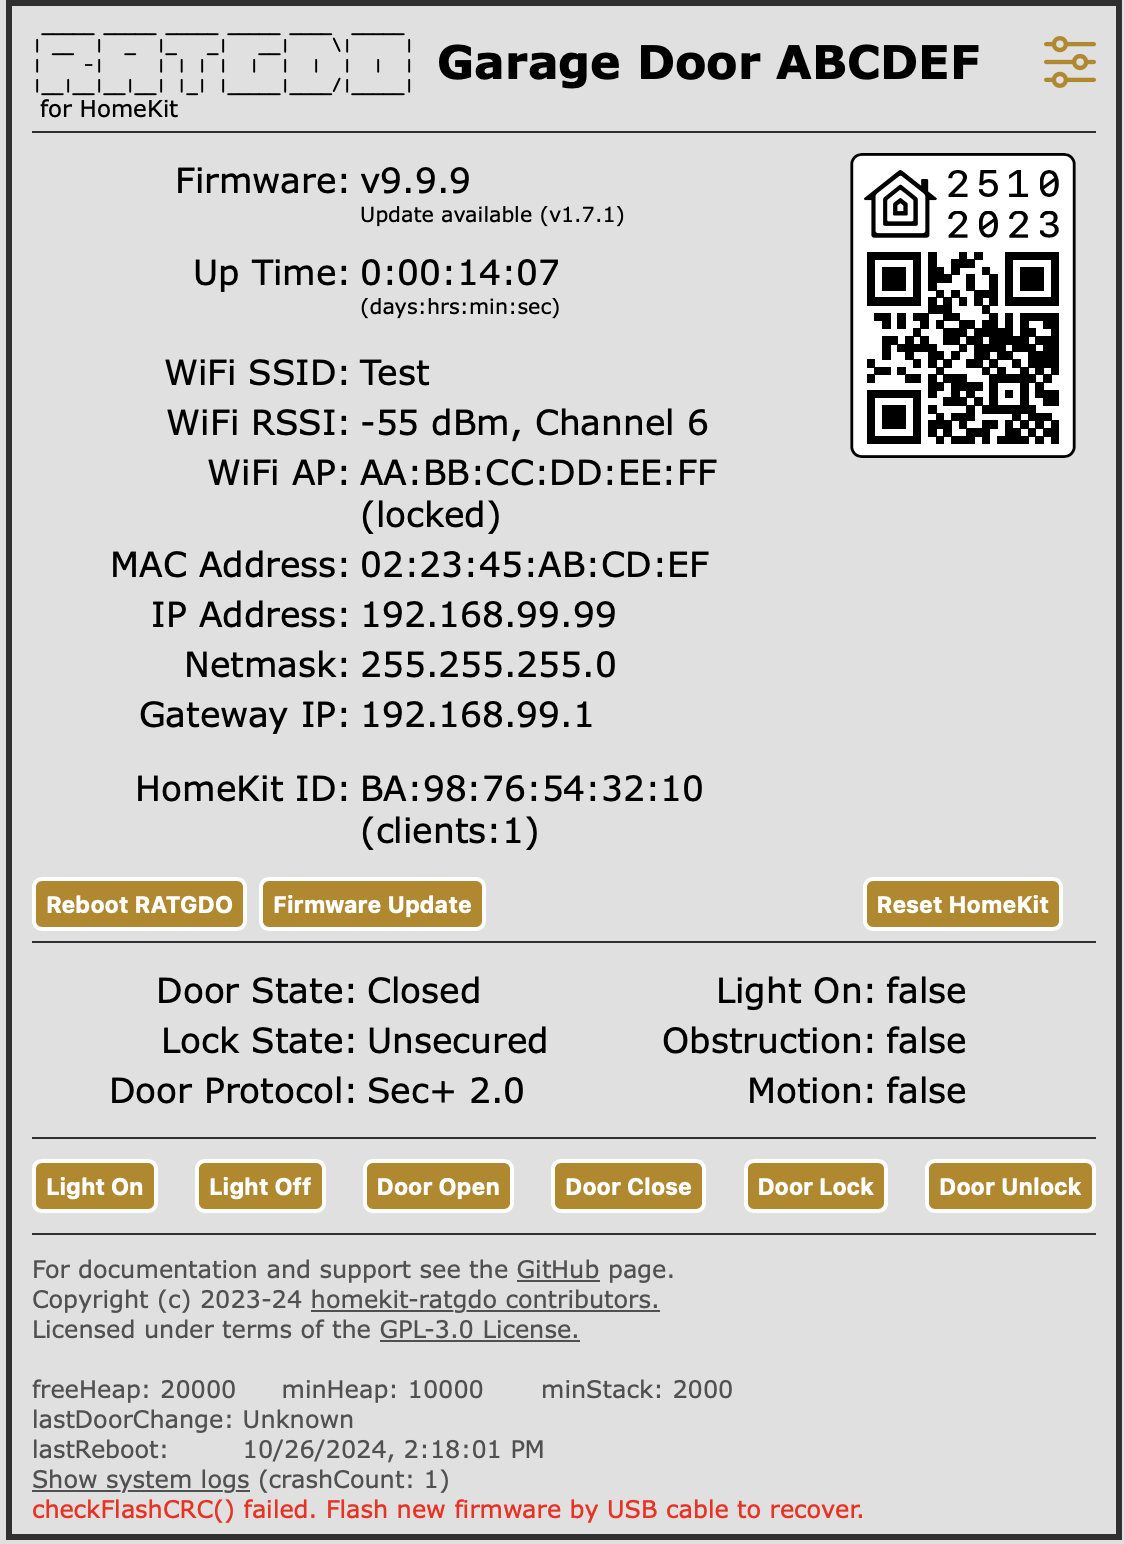
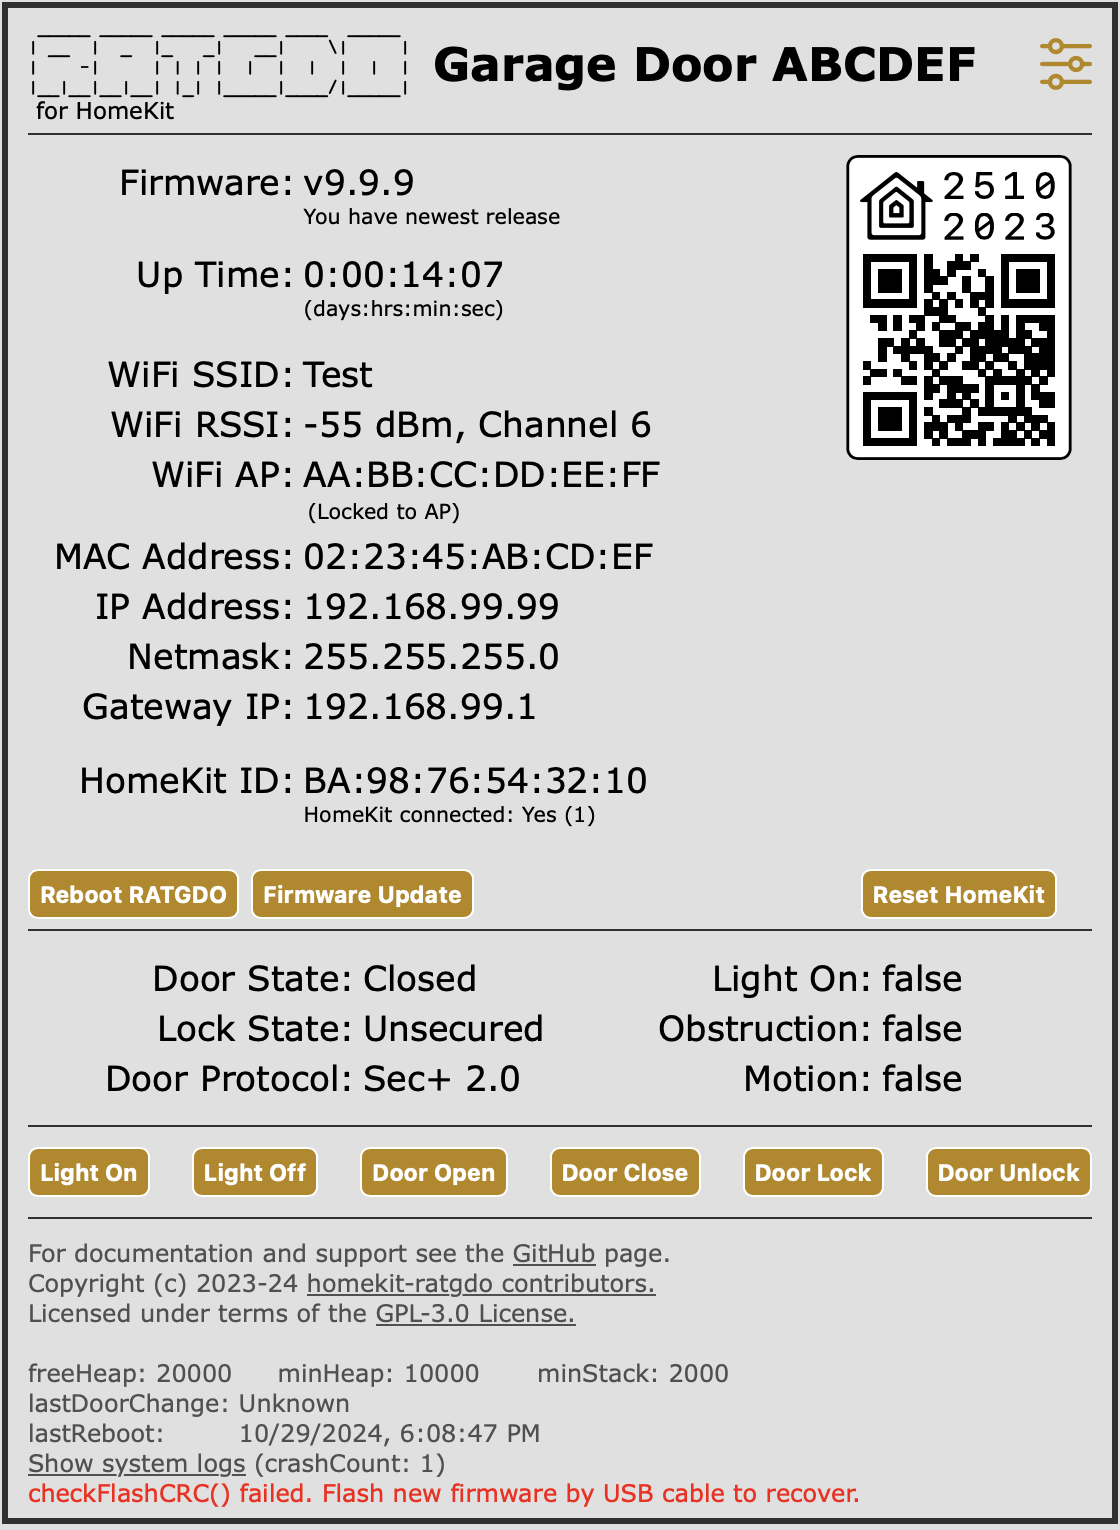
Move AP locked status to its own json value

Changed region(s): [[0.0, 0.0, 1.0, 1.0]]

diff --git a/src/www/index.html b/src/www/index.html
@@ -66,7 +66,8 @@
             </tr>
             <tr>
               <td>WiFi AP:</td>
-              <td id="wifiBSSID"></td>
+              <td><span id="wifiBSSID"></span><br><sup style="font-size: 0.6em;"><span id="lockedAP"
+                    style="display: none">(Locked to AP)</span></sup></td>
             </tr>
             <tr>
               <td>MAC Address:</td>
@@ -89,7 +90,8 @@
             </tr>
             <tr>
               <td>HomeKit ID:</td>
-              <td><span id="accessoryID"></span><br><sup style="font-size: 0.6em;">(clients:<span id="clients"></span>)</sup></td>
+              <td><span id="accessoryID"></span><br><sup style="font-size: 0.6em;">HomeKit connected: <span
+                    id="clients">No</span></sup></td>
             </tr>
           </table>
         </div>
@@ -365,10 +367,8 @@
                 <td></td>
               </tr>
               <tr>
-                <td>
-                  <input type="button" value="Save Settings" onclick="saveSettings()">
-                </td>
-                <td>
+                <td colspan="2" style="text-align: center;">
+                  <input type="button" value="Save Settings" onclick="saveSettings()">&nbsp;
                   <input type="button" value="Reset Door" onclick="resetDoor()">&nbsp;
                   <input type="button" value="Set WiFi SSID" onclick="setSSID()">
                 </td>

diff --git a/src/www/functions.js b/src/www/functions.js
@@ -226,6 +226,12 @@ function setElementsFromStatus(status) {
                 document.getElementById(key).value = value;
                 document.getElementById("wifiPowerValue").innerHTML = value;
                 break;
+            case "lockedAP":
+                document.getElementById("lockedAP").style.display = (value) ? "table" : "none";
+                break;
+            case "clients":
+                document.getElementById(key).innerHTML = (value > 0) ? `Yes (${value})` : 'No';
+                break;
             case "localIP":
                 document.getElementById(key).innerHTML = value;
                 document.getElementById("IPaddress").placeholder = value;

diff --git a/src/web.cpp b/src/web.cpp
@@ -617,7 +617,8 @@ void handle_status()
     ADD_STR(json, "macAddress", macAddress);
     ADD_STR(json, "wifiSSID", wifiSSID);
     ADD_STR(json, "wifiRSSI", (std::to_string(WiFi.RSSI()) + " dBm, Channel " + std::to_string(WiFi.channel())).c_str());
-    ADD_STR(json, "wifiBSSID", (WiFi.BSSIDstr() + (wifiConf.bssid_set ? " (locked)" : "")).c_str());
+    ADD_STR(json, "wifiBSSID", WiFi.BSSIDstr().c_str());
+    ADD_BOOL(json, "lockedAP", wifiConf.bssid_set)
     ADD_INT(json, "GDOSecurityType", userConfig->gdoSecurityType);
     ADD_STR(json, "garageDoorState", garage_door.active ? DOOR_STATE(garage_door.current_state) : DOOR_STATE(255));
     ADD_STR(json, "garageLockState", LOCK_STATE(garage_door.current_lock));
